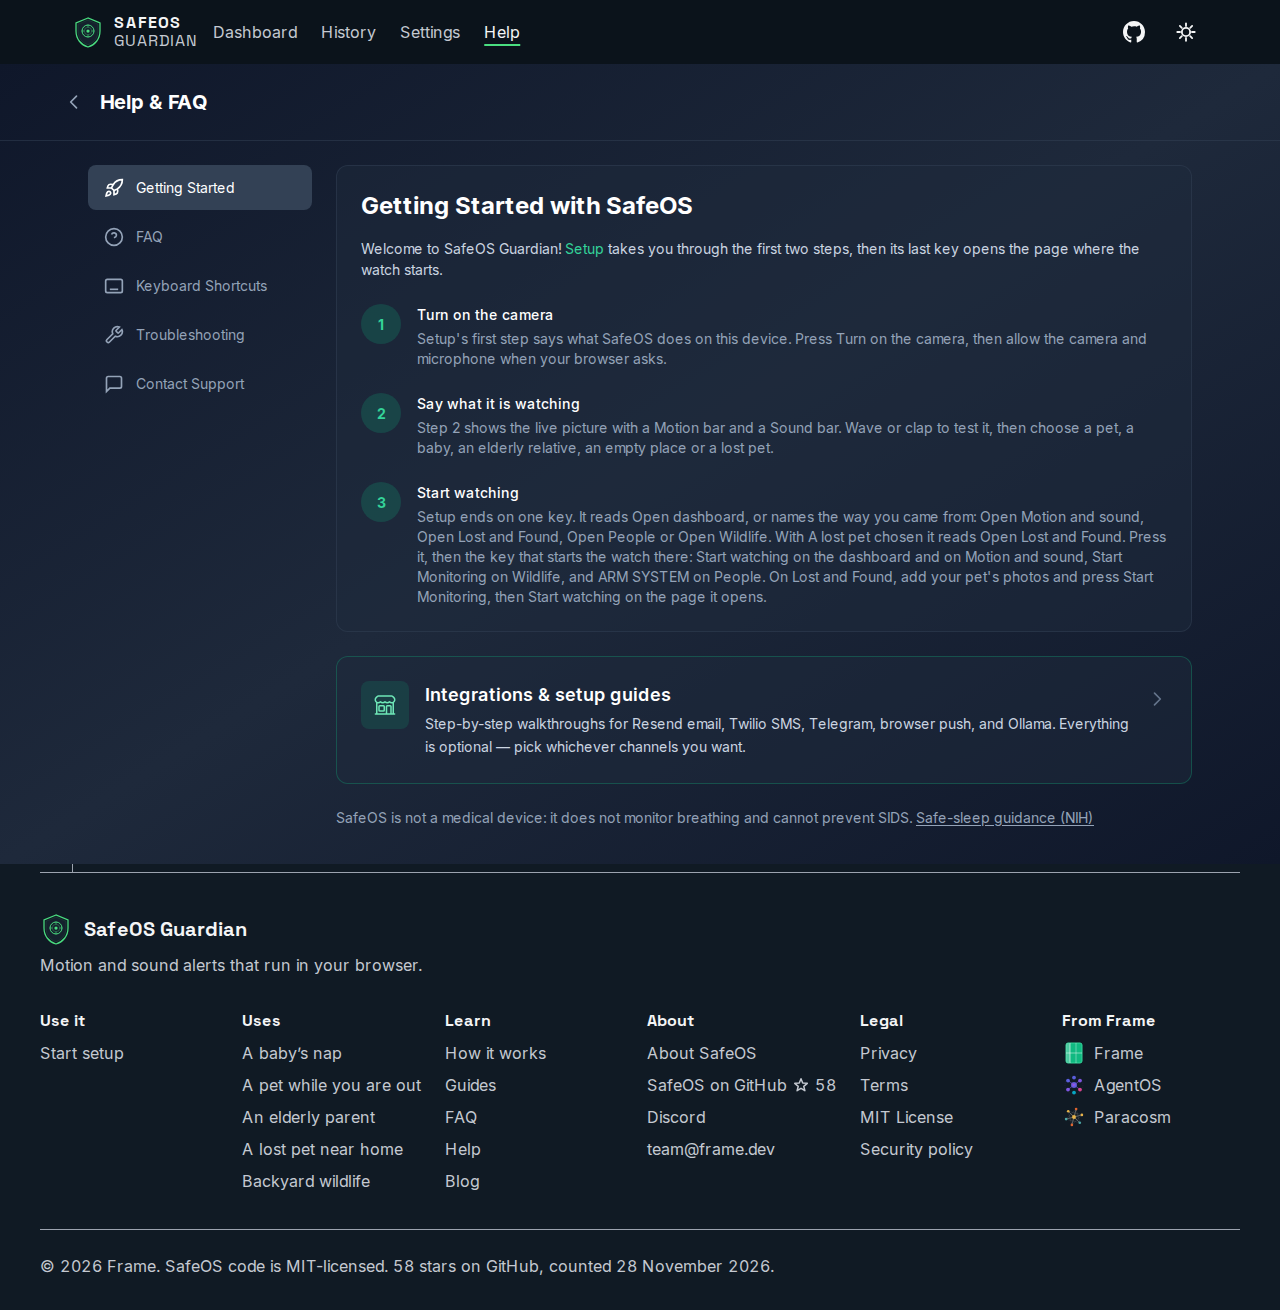
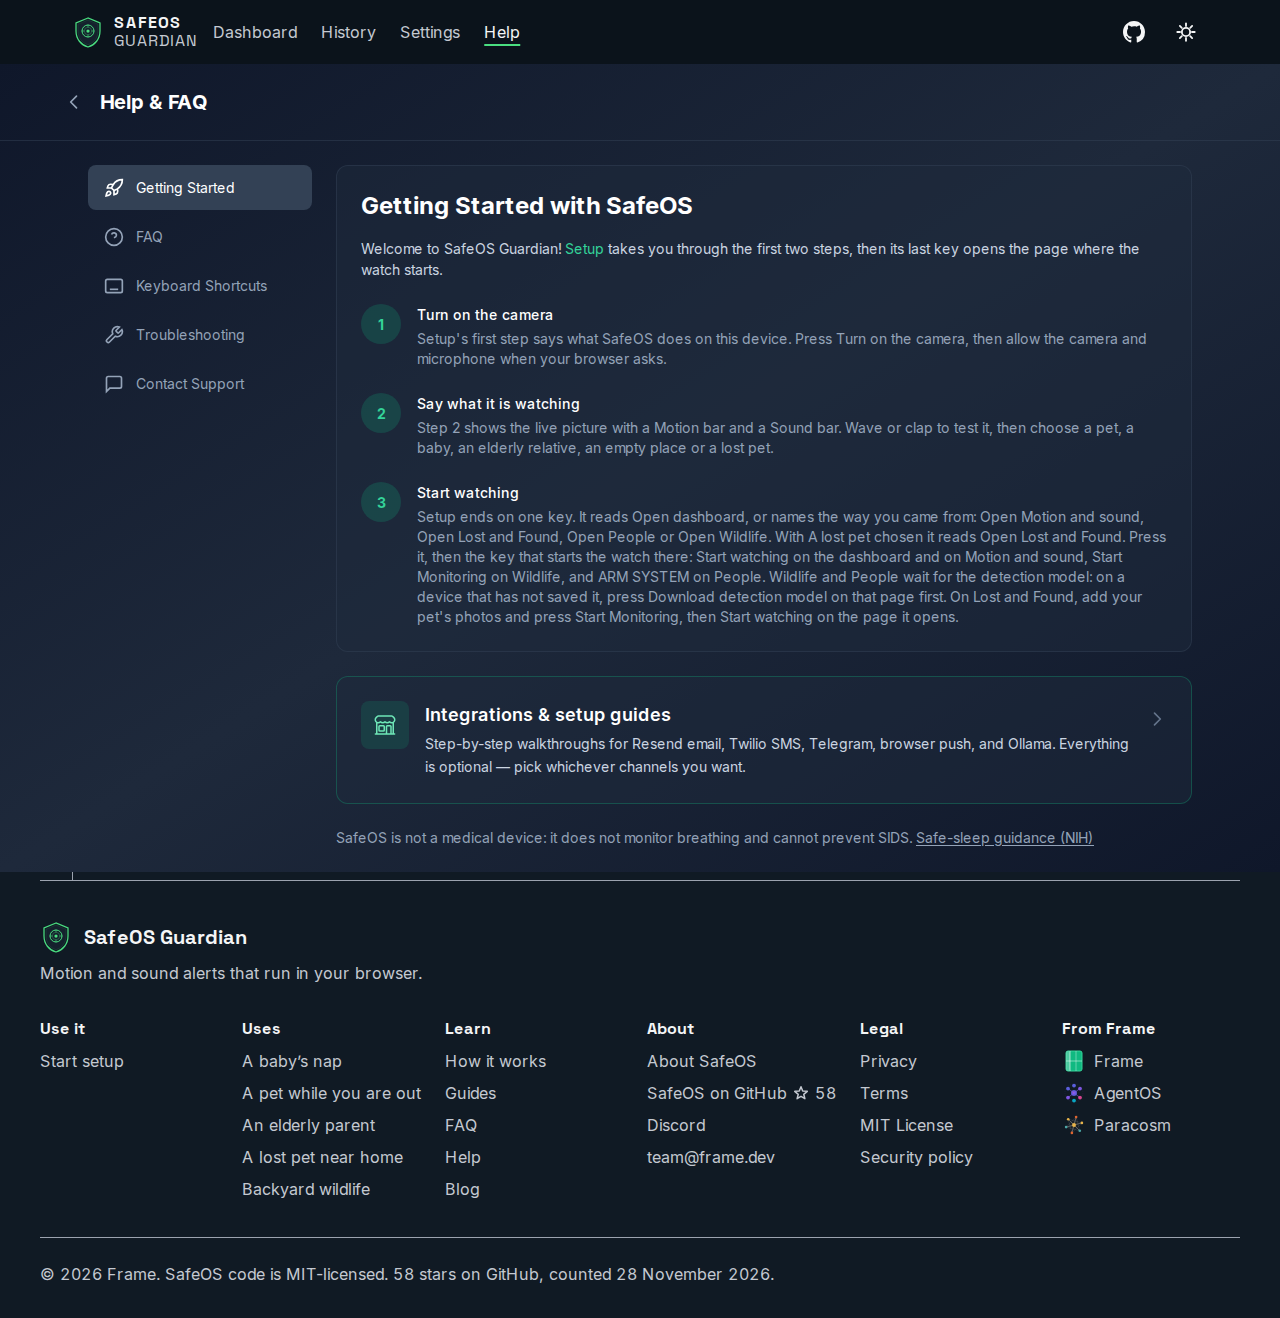
docs: refresh the after pictures from the Pictures run on 295bc3c (run 46118277967); Help's Getting Started now names Download detection model

diff --git a/docs/pictures/pr-73/README.md b/docs/pictures/pr-73/README.md
@@ -1,6 +1,6 @@
 # Setup, Help and dashboard words that say what is true
 
-The after pictures come from Pictures run 46098054937 on commit 81dc247700a08b2ae4b901a74d43f8f4d8b4498f: the setup pictures from its job Walk setup, the others from its job Capture pictures. The before pictures come from Pictures run 46083140872 on commit af20e43, which holds master's code (29d28f4) with this change's new tests and captures: the setup pictures from its job Walk setup, the others from its job Capture pictures. Master's own capture list had none of the first two states.
+The after pictures come from Pictures run 46118277967 on commit 295bc3ca58fbb918474207ec771b1371ecf4fbe4, which has this change's code on master 19a286c: the setup pictures from its job Walk setup, the others from its job Capture pictures. The before pictures come from Pictures run 46083140872 on commit af20e43, which holds master's code (29d28f4) with this change's new tests and captures: the setup pictures from its job Walk setup, the others from its job Capture pictures. Master's own capture list had none of the first two states.
 
 - `before/setup-camera-unread-390-light.png`: Setup's first step after a refusal in a browser whose permission query for the camera fails, 390 px, light, before: it says the camera is blocked.
 - `after/setup-camera-unread-390-light.png`: The same, after: the camera did not open; press Try again, then Allow, or allow it in the site's settings if the browser does not ask; with Try again and How to allow the camera.
@@ -11,7 +11,7 @@ The after pictures come from Pictures run 46098054937 on commit 81dc247700a08b2a
 - `before/dashboard-lost-pet-camera-blocked-390-dark.png`: The same state, 390 px, dark, before.
 - `after/dashboard-lost-pet-camera-blocked-390-dark.png`: The same state, 390 px, dark, after.
 - `before/help-1280-light.png`: Help's Getting Started, 1280 px, light, before: "Press Open dashboard, then Start watching."
-- `after/help-1280-light.png`: The same, after: step 3 names every last key setup can show and the key that starts the watch on each page.
+- `after/help-1280-light.png`: The same, after: step 3 names every last key setup can show and the key that starts the watch on each page, and says that Wildlife and People wait for Download detection model on a device that has not saved the model.
 - `before/help-1280-dark.png`: Help's Getting Started, 1280 px, dark, before.
 - `after/help-1280-dark.png`: Help's Getting Started, 1280 px, dark, after.
 - `before/help-390-light.png`: Help's Getting Started, 390 px, light, before.
